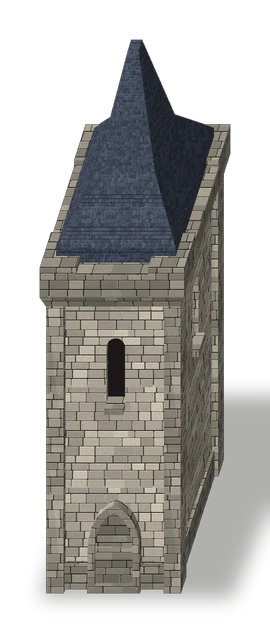
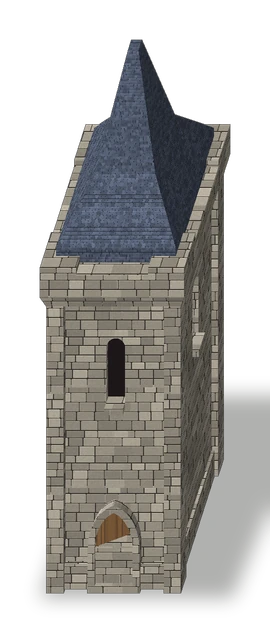
Kenney-Renderer: Materialnamen (Retro Fantasy Kit), Laub, Stoff und Fels mit Tönung aus dem Modell; Texturen laub und stoff selbst gerechnet
Claude-Session: https://claude.ai/code/session_01TxcDgCGDXB5iarBWHVLHjr

diff --git a/realtime/werkzeug/welt/kenney.py b/realtime/werkzeug/welt/kenney.py
@@ -32,24 +32,31 @@ F, K, KX = 48, 2, 0.32
 MODELLE = {
     'burg_turm_01': dict(name='Burgturm (Kenney-Form)', paket='castle', teile=['tower-square-mid-door', 'tower-square-mid-windows', 'tower-square-top-roof-high'], mass=3.0, dreh=-90, saat=41),
 }
-# Material aus der Farbe der Farbtafel: (Textur, Maßstab der Textur) oder eine feste Farbe
+# Material aus der Farbe der Farbtafel: (Textur, Maßstab der Textur, Tönung oder None) oder ('farbe', rgb)
 def material(rgb):
-    r, g, b = [float(c) for c in rgb]; m = (r + g + b) / 3
-    if m < 95:
+    r, g, b = [float(c) for c in rgb]; m = (r + g + b) / 3; satt = max(r, g, b) - min(r, g, b)
+    if m < 95 and satt < 40:
         return ('farbe', (34, 28, 30))                 # Öffnung: Fenster, Tür, Schießscharte
-    if b > r + 40:
-        return ('schiefer', 0.12)                      # Dach
+    if g > r + 12 and g > b:
+        return ('laub', 0.35, (r, g, b))               # Laub, Gras, Hecke (in der Farbe des Modells)
+    if b > r + 40 and m < 170:
+        return ('schiefer', 0.12, None)                # Dach
     if b >= r and r > 140:
         return ('farbe', (118, 122, 132))              # Metall
-    if r > 185 and r > g > b:
-        return ('quader', 0.24)                        # Stein
-    if r > g > b:
-        return ('holz', 0.1)                           # Holz
-    return ('farbe', tuple(int(c) for c in rgb))
+    if satt < 22:
+        return ('stein', 0.16, (r, g, b))              # grauer Stein, Fels
+    if r > 185 and r > g > b and satt < 120:
+        return ('quader', 0.24, None)                  # Mauerstein (Kenneys Ocker)
+    if r > g > b and m < 150:
+        return ('holz', 0.1, None)                     # Holz
+    return ('stoff', 0.5, (r, g, b))                   # kräftige Farben: Stoff, Fahnen, Planen
+# Materialnamen (Retro Fantasy Kit) statt Farbtafel
+NAMEN = {'bricks': ('quader', 0.24, None), 'stones': ('stein', 0.16, None), 'stonesPainted': ('stoff', 0.5, (214, 200, 172)), 'planks': ('holz', 0.1, None),
+         'roof': ('schiefer', 0.12, None), 'barrel': ('holz', 0.1, None), 'fence': ('holz', 0.1, None), 'tree': ('laub', 0.35, (96, 140, 70)), 'water': ('farbe', (70, 120, 150))}
 
 
 def lade(pfad):
-    v, vt, flaechen = [], [], []
+    v, vt, flaechen = [], [], []; mtl = None
     for z in open(pfad, encoding='utf8', errors='ignore'):
         t = z.split()
         if not t:
@@ -58,27 +65,33 @@ def lade(pfad):
             v.append([float(a) for a in t[1:4]])
         elif t[0] == 'vt':
             vt.append([float(a) for a in t[1:3]])
+        elif t[0] == 'usemtl':
+            mtl = t[1] if len(t) > 1 else None
         elif t[0] == 'f':
             ii = [p.split('/') for p in t[1:]]
-            flaechen.append(([int(p[0]) - 1 for p in ii], [int(p[1]) - 1 if len(p) > 1 and p[1] else -1 for p in ii]))
+            flaechen.append(([int(p[0]) - 1 for p in ii], [int(p[1]) - 1 if len(p) > 1 and p[1] else -1 for p in ii], mtl))
     return np.array(v, dtype=np.float64), np.array(vt if vt else [[0.5, 0.5]], dtype=np.float64), flaechen
 
 
 def dreiecke(M):
     """Alle Teile übereinander: Liste (Ecken in Weltfeldern 3×3, Farbe aus der Tafel)"""
-    ordner = os.path.join(HIER, 'kenney', M['paket'])
-    tafel = np.asarray(Image.open(os.path.join(ordner, 'colormap.png')).convert('RGB'))
+    ordner = M.get('ordner') or os.path.join(HIER, 'kenney', M['paket'])
+    tafel = np.asarray(Image.open(os.path.join(ordner, 'colormap.png') if os.path.exists(os.path.join(ordner, 'colormap.png')) else os.path.join(ordner, 'Textures', 'colormap.png')).convert('RGB')) \
+        if any(os.path.exists(os.path.join(ordner, *q)) for q in (('colormap.png',), ('Textures', 'colormap.png'))) else None
     aus, z0 = [], 0.0
     for teil in M['teile']:
         v, vt, fl = lade(os.path.join(ordner, teil + '.obj'))
         P = np.stack([v[:, 0], -v[:, 2], v[:, 1] - v[:, 1].min() + z0], 1) * M['mass']   # OBJ: y oben, −z nach Norden
         if M.get('dreh'):                                                                 # um die senkrechte Achse drehen (Grad, gegen den Uhrzeigersinn von oben)
             w = math.radians(M['dreh']); c, si = math.cos(w), math.sin(w); P = np.stack([P[:, 0] * c - P[:, 1] * si, P[:, 0] * si + P[:, 1] * c, P[:, 2]], 1)
-        for fi, ti in fl:
-            uv = vt[[t for t in ti if t >= 0]].mean(0) if any(t >= 0 for t in ti) else np.array([0.5, 0.5])
-            farbe = tafel[int(min(tafel.shape[0] - 1, max(0, (1 - uv[1]) * tafel.shape[0]))), int(min(tafel.shape[1] - 1, max(0, uv[0] * tafel.shape[1])))]
+        for fi, ti, mtl in fl:
+            if mtl in NAMEN:
+                art = NAMEN[mtl]
+            else:
+                uv = vt[[t for t in ti if t >= 0]].mean(0) if any(t >= 0 for t in ti) else np.array([0.5, 0.5])
+                art = material(tafel[int(min(tafel.shape[0] - 1, max(0, (1 - uv[1]) * tafel.shape[0]))), int(min(tafel.shape[1] - 1, max(0, uv[0] * tafel.shape[1])))]) if tafel is not None else ('farbe', (150, 140, 130))
             for k in range(1, len(fi) - 1):
-                aus.append((P[[fi[0], fi[k], fi[k + 1]]], farbe))
+                aus.append((P[[fi[0], fi[k], fi[k + 1]]], art))
         z0 += (v[:, 1].max() - v[:, 1].min()) * 0.985          # das nächste Teil sitzt (mit einer Spur Überlappung) darauf
     return aus
 
@@ -93,7 +106,7 @@ def render(M):
     bild = np.zeros((H * K, W * K, 3), np.float32); tiefe = np.full((H * K, W * K), np.inf, np.float32); deck = np.zeros((H * K, W * K), np.float32)
     licht = np.array(haus3d.LICHT, dtype=np.float64)
     blick = np.array([-KX, 1.0, -1.0])
-    for P, farbe in tris:
+    for P, art in tris:
         n = np.cross(P[1] - P[0], P[2] - P[0]); ln = np.linalg.norm(n)
         if ln < 1e-12 or np.dot(n, blick) > 0:            # Rückseiten weglassen
             continue
@@ -117,7 +130,6 @@ def render(M):
         neu = innen & (t < tiefe[ausschnitt] - 1e-6)
         if not neu.any():
             continue
-        art = material(farbe)
         if art[0] == 'farbe':
             c = np.broadcast_to(np.array(art[1], np.float32), Wp.shape)
         else:
@@ -131,8 +143,9 @@ def render(M):
             if art[0] == 'schiefer' and a[2] < 0.97:                                   # Dachflächen: Reihen laufen entlang der Traufe
                 u, v = (Wp[..., 0] if a[0] < a[1] else Wp[..., 1]), -(Wp[..., 2] + Wp[..., 1] * 0.0)
             px = ((u * F / m) % T.shape[1]).astype(int); py = ((v * F / m) % T.shape[0]).astype(int)
-            hellw = float(np.mean(farbe)) / 168.0                                       # Abstufungen der Tafel (Zierkanten) bleiben sichtbar
-            c = T[py, px] * min(1.18, max(0.82, hellw))
+            c = T[py, px]
+            if art[2] is not None:                                                      # eingefärbt: Helligkeit der Textur, Farbe des Modells
+                c = c.mean(-1, keepdims=True) / max(1.0, float(T.mean())) * np.array(art[2], np.float32)
         h = 0.5 + 0.62 * max(0.0, float(n @ licht))
         bild[ausschnitt][neu] = np.clip(c[neu] * h, 0, 255)
         tiefe[ausschnitt][neu] = t[neu]; deck[ausschnitt][neu] = 1

diff --git a/realtime/werkzeug/welt/gebaeude.py b/realtime/werkzeug/welt/gebaeude.py
@@ -53,6 +53,17 @@ def _kachelbar(a, rand=24):
 def _gerechnet(name, rng):
     """Selbst gerechnete Texturen ohne Bildvorlage (frei von Lizenzfragen), kachelbar:
     stein = Bruchstein, quader = behauene Quader (Burg), schiefer = Schieferdach, holz = Bretter mit Maserung"""
+    if name == 'laub':      # Blattwerk: viele kleine, helle und dunkle Tupfen (neutral grau, wird beim Malen eingefärbt)
+        n = 256; a = np.full((n, n), 0.62, np.float32)
+        for _ in range(1400):
+            x, y, r, g = rng.uniform(0, n), rng.uniform(0, n), rng.uniform(2, 5.5), rng.uniform(0.35, 1.0)
+            yy, xx = np.ogrid[:n, :n]; d = np.minimum(np.abs(xx - x), n - np.abs(xx - x)) ** 2 + np.minimum(np.abs(yy - y), n - np.abs(yy - y)) ** 2
+            a[d < r * r] = g * (0.85 + 0.15 * (1 - d[d < r * r] / (r * r)))
+        return np.repeat(ndimage.gaussian_filter(a, 0.7, mode='wrap')[..., None] * 200, 3, -1)
+    if name == 'stoff':     # Gewebe: feines Fadenmuster mit leichtem Rauschen (neutral grau)
+        n = 128; y, x = np.mgrid[0:n, 0:n]
+        a = 0.78 + 0.08 * np.sin(x * math.pi / 2) * np.sign(np.sin(y * math.pi / 4)) + 0.05 * ndimage.gaussian_filter(rng.standard_normal((n, n)), 3, mode='wrap') / 0.05
+        return np.repeat(np.clip(a, 0.5, 1.0)[..., None] * 200, 3, -1)
     n = 420; G = Image.new('RGB', (3 * n, 3 * n), (64, 60, 54) if name != 'schiefer' else (34, 38, 46)); dr = ImageDraw.Draw(G)
     def stueck(x, y, b, h, farbe, r):
         if name == 'stein':   # Bruchstein: unregelmäßiger Umriss aus gestörten Punkten um ein Rechteck
@@ -132,7 +143,7 @@ def tex(name):
         prof = np.cos((np.arange(n0) % hoehe / hoehe - 0.5) * math.pi) ** 0.6
         a = a * (0.55 + 0.6 * prof)[:, None, None]
         a[np.arange(n0) % hoehe < 2] *= 0.4
-    elif name in ('stein', 'quader', 'schiefer', 'holz'):
+    elif name in ('stein', 'quader', 'schiefer', 'holz', 'laub', 'stoff'):
         a = _gerechnet(name, rng)
     elif name == 'ziegel':
         a = np.asarray(Image.open(os.path.join(HIER, 'texturen_frei', 'ziegel.jpg')).convert('RGB').resize((420, 420), Image.LANCZOS)).astype(np.float32)
